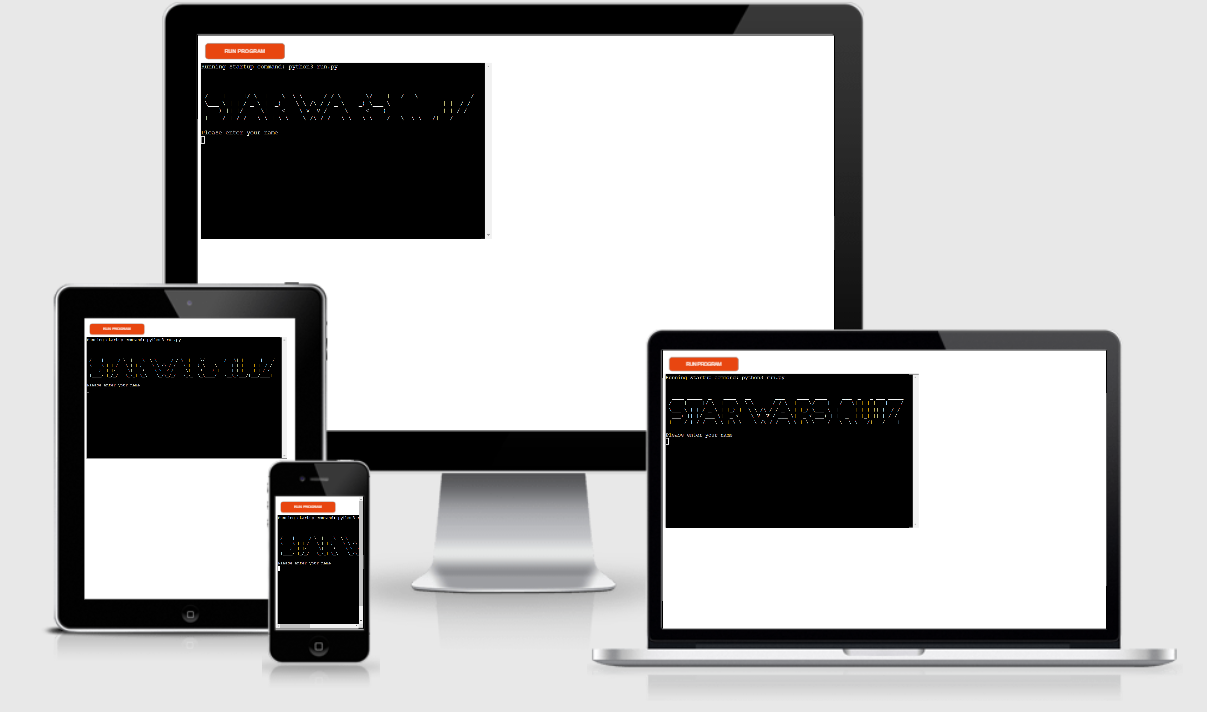
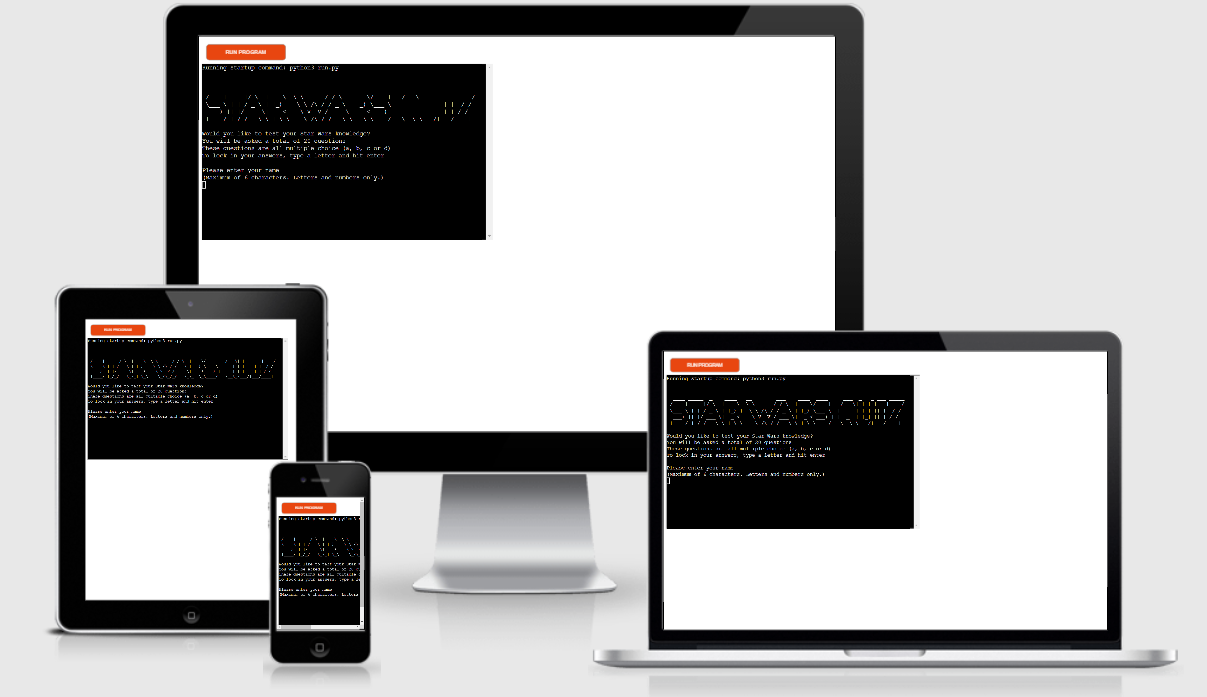
Add how to play and title screen features to README.md

Changed region(s): [[0.0307, 0.0, 0.9809, 0.9943]]

diff --git a/run.py b/run.py
@@ -44,13 +44,13 @@ def get_name():
 (Maximum of 6 characters. Letters and numbers only.)\n""")
 
         if check_name(NAME):
-            print(f"Hello, {NAME}.\n")
+            print(f"\nHello, {NAME}.\n")
             break
 
     return NAME
 
 
-def check_name(name):
+def check_name(NAME):
     """
     Inside the try, validates user's input for an inputted name.
     ValueError will be raised for names longer than 6 characters,
@@ -60,9 +60,9 @@ def check_name(name):
     try:
         if not NAME:
             raise ValueError("Please enter your name")
-        if len(name) > 6:
+        if len(NAME) > 6:
             raise ValueError("Name contains too many characters.")
-        if not name.isalnum():
+        if not NAME.isalnum():
             raise ValueError("Invalid characters used.")
     except ValueError as e:
         print(f"Invalid data: {e} Try again.\n")

diff --git a/README.md b/README.md
@@ -1,5 +1,46 @@
 # Star Wars Quiz Game
 
 Star Wars Quiz Game is a Python terminal game, which runs in the Code Institute mock terminal on Heroku.
+The aim of this game is to test Star Wars fans on their Star Wars knowledge and provide a source of entertainment. This quiz is aimed at both adults and children alike who have an interest in the Star Wars universe.
+
+The live link to this project can be found here - http://star-wars-quiz-game.herokuapp.com/
 
 ![Responsive Mockup](/assets/images/mock-up.png)
+
+## How To Play
+
+The user is required to enter a name and will then be asked if they are ready to begin in order for the quiz to start.
+
+Users will be asked 20 multiple choice questions and must provide an answer from the options given (a, b, c or d).
+
+To submit their answer, users must type a corresponding letter option for their chosen answer and hit enter.
+
+Users will then see if they were correct or incorrect with that answer.
+
+At the end of the quiz users will be provided with how many answers they got correct.
+
+## Features 
+
+### Existing Features
+
+- __Title Screen__
+  - Upon first accessing the page, users will be presented with a title, "Star Wars Quiz" in ASCII.
+  - ASCII has been used because it improves the look of the quiz and clearly tells users what the game is.
+  - Also found here are a brief description about what the quiz entails, how to play the game and an input request for the users name.
+
+![Title Screen](/assets/images/home-screen.png)
+
+- __Name Input__
+  - Users are required to input a name.
+  - This is asked at this stage in the game in order to provide a more personalised experience from the start.
+  - Names are required to be a maximum of 6 characters in length (this improved the appearance of the high scores at the end), and contain only letters and numbers.
+  - If names meet the validation requirements then a greeting will be displayed and the user will be asked if they are ready to start the quiz.
+
+  ![Valid Name](/assets/images/greeting.png)
+  ![Start Quiz](/assets/images/start-quiz.png)
+  
+
+  - If names do not meet the validation requirements then a message will be displayed as to which validation requirement the name fails and to enter another name.
+
+  ![Name Too Long](/assets/images/invalid-data-long.png) 
+  ![Invalid Characters](/assets/images/invalid-data-char.png)
